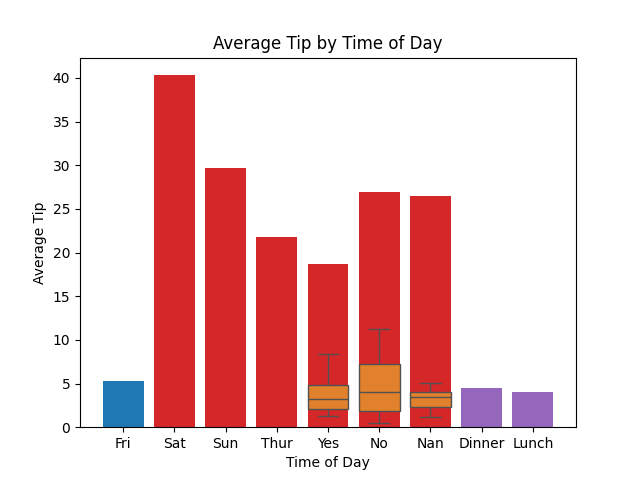
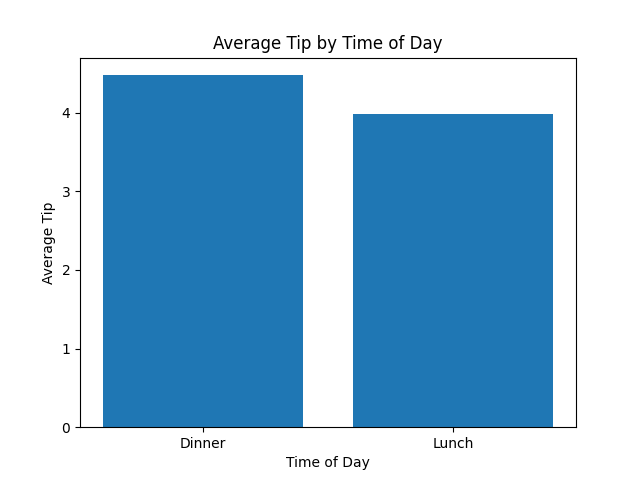
Fixed Minor Bugs

diff --git a/Restaurant.py b/Restaurant.py
@@ -4,7 +4,7 @@ import seaborn as sns
 import numpy as np
 import sys
 
-df = pd.read_csv('data/Unclean_Restaurant_Data.csv')
+df = pd.read_csv(r'Restaurant-Tip-Analysis/data/Unclean_Restaurant_Data.csv')
 
 # Data Cleaning Function
 def clean_data(df):
@@ -40,74 +40,82 @@ else:
 def avg_tip_day(df_cleaned):
     avg_tip_by_day = df_cleaned.groupby('day')['tip'].mean()
     print(avg_tip_by_day.round(2))
+    plt.clf()
     plt.bar(avg_tip_by_day.index, avg_tip_by_day.values)
     plt.xlabel('Day of the Week')
     plt.ylabel('Average Tip')
     plt.title('Average Tip by Day')
-    plt.savefig('Visuals/avg_tip_by_day.png')
+    plt.savefig('Restaurant-Tip-Analysis/Visuals/avg_tip_by_day.png')
+    return "Graph Successfully Saved for Question 2"
 
-avg_tip_day(df_cleaned)
+print(avg_tip_day(df_cleaned))
 
 # Question 3. Do smokers tip differently compared to non-smokers?
 def avg_tip_by_smoker_status(df_cleaned):
     smoker_tips = df_cleaned.groupby('smoker')['tip'].mean()
-    print(smoker_tips.round(2))
+    plt.clf()
     sns.boxplot(x='smoker', y='tip', data=df_cleaned)
     plt.title("Tip Amount: Smokers vs Non-Smokers")
-    plt.savefig('Visuals/tip_amt_btw_smoker_and_non_smoker.png')
+    plt.savefig('Restaurant-Tip-Analysis/Visuals/tip_amt_btw_smoker_and_non_smoker.png')
+    return "Graph Successfully Saved for Question 3"
 
 print(avg_tip_by_smoker_status(df_cleaned))
 
 # Question 4. How does party size affect the total bill or tip amount?
 def avg_tip_and_bill_by_size(df_cleaned):
     avg_tip_by_size = df_cleaned.groupby('size')['tip'].mean()
-    print(avg_tip_by_size.round(2))
+    plt.clf()
     plt.bar(avg_tip_by_size.index, avg_tip_by_size.values)
     plt.xlabel('Party Size')
     plt.ylabel('Average Tip')
     plt.title('Average Tip by Party Size')
-    plt.savefig('Visuals/avg_tip_by_size.png')
+    plt.savefig('Restaurant-Tip-Analysis/Visuals/avg_tip_by_size.png')
+    
 
     avg_bill_by_size = df_cleaned.groupby('size')['total_bill'].mean()
-    print(avg_bill_by_size.round(2))
+    plt.clf()
     plt.bar(avg_bill_by_size.index, avg_bill_by_size.values)
     plt.xlabel('Party Size')
     plt.ylabel('Average Bill')
     plt.title('Average Bill by Party Size')
-    plt.savefig('Visuals/avg_bill_by_size.png')
+    plt.savefig('Restaurant-Tip-Analysis/Visuals/avg_bill_by_size.png')
+    return "Graph Successfully Saved for Question 4(a) and Question 4(b)"
 
 print(avg_tip_and_bill_by_size(df_cleaned))
 
 # Question 5. Is there a noticeable difference in tipping behavior during Lunch and Dinner?
 def avg_tip_by_time(df_cleaned):
     avg_tip_by_time = df_cleaned.groupby('time')['tip'].mean()
-    print(avg_tip_by_time.round(2))
+    plt.clf()
     plt.bar(avg_tip_by_time.index, avg_tip_by_time.values)
     plt.xlabel('Time of Day')
     plt.ylabel('Average Tip')
     plt.title('Average Tip by Time of Day')
-    plt.savefig('Visuals/avg_tip_by_time.png')
+    plt.savefig('Restaurant-Tip-Analysis/Visuals/avg_tip_by_time.png')
+    return "Graph Successfully Saved for Question 5"
 
 print(avg_tip_by_time(df_cleaned))
 
 # Question 6. Is there a correlation between total bill, tip amount, and party size?
 def relationship_total_bill_tip_party_size(df_cleaned):
     correlation = df_cleaned[['total_bill', 'tip', 'size']].corr()
+    plt.clf()
     sns.heatmap(correlation, annot=True, cmap='YlGnBu')
     plt.title("Correlation Between Total Bill, Tip, and Party Size")
-    plt.savefig('Visuals/correlation_total_bill_tip_party_size.png')
-    return "Graph Successfully Saved for Question 7"
+    plt.savefig('Restaurant-Tip-Analysis/Visuals/correlation_total_bill_tip_party_size.png')
+    return "Graph Successfully Saved for Question 6"
 
 print(relationship_total_bill_tip_party_size(df_cleaned))
 
 # Question 7. Which day of the week brings in the highest total bill amounts?
 def highest_total_bill_day(df_cleaned):
     Total_bill_by_day = df_cleaned.groupby('day')['total_bill'].sum()
+    plt.clf()
     plt.bar(Total_bill_by_day.index, Total_bill_by_day.values)
     plt.xlabel('Day of the Week')
     plt.ylabel('Total Bill Amount')
     plt.title('Total Bill Amount by Day of the Week')
-    plt.savefig('Visuals/total_bill_by_day.png')
+    plt.savefig('Restaurant-Tip-Analysis/Visuals/total_bill_by_day.png')
     return "Graph Successfully Saved for Question 7"
 
 print(highest_total_bill_day(df_cleaned))
